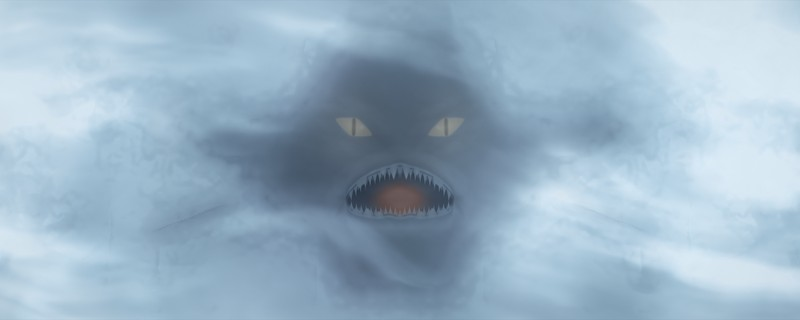
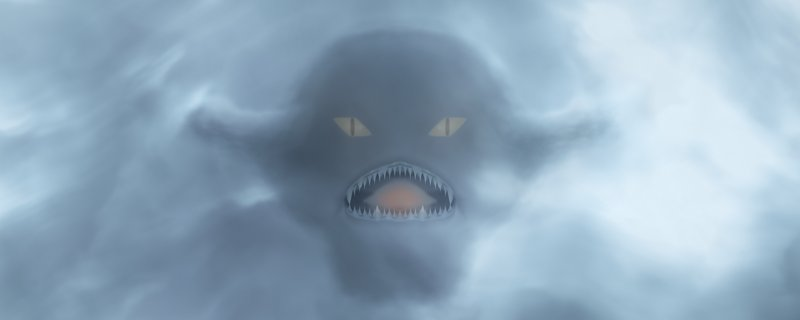
Roarschach README: dice, CHAMBER, preset menu and gallery screenshots; re-captured visualiser stills
Adds tooltips for the three kinds of die, the dice undo menu and a before/after
RANDOMISE ALL roll (Big Bad Narrator, seed 5); CHAMBER in three states with its
Room, Speaker and Boom menus, an Edge tooltip and its ••• menu; the preset list
with the Machines, Creatures and Voices groups open; a gallery of Simple Size,
Cyber Commander, Symbiote and Iron Tyrant playing a voice; and the creature's
right-click menu. The six visualiser stills are re-captured from the current
renderer at the same evolution stages. All images rendered from the build with
the bundled rooms.

diff --git a/roarschach/README.md b/roarschach/README.md
@@ -94,17 +94,31 @@ Every control has a tooltip: hover over it to see what it does, and where its us
 
 ### The dice
 
-<img src="docs/panel-roll-all.png" alt="RANDOMISE ALL: a die in the empty slot after the last module, above the connector into OUTPUT" width="152">
+Three kinds of die roll new settings: one beside the preset name, one after the last module, and one on every module.
 
-Three kinds of die roll new settings. Each roll is one step you can take back: right-click any die for **Undo** and **Redo** (with the keyboard, Shift+F10 on a die opens the same menu), or press Cmd+Z (Ctrl+Z on Windows) straight after clicking a die, and Shift+Cmd+Z (Shift+Ctrl+Z) to redo. Once you use another control, these keys go back to the host's own undo; some hosts keep them for themselves anyway, and the right-click menu always works. Undo takes back only what the roll changed, and a knob you turned afterwards stays where you put it, even one the roll had changed. Loading a preset or session, even the same one again, ends the history. The host sees every control a roll changes, so it records the roll and its automation follows.
+<img src="docs/dice-preset-tooltip.png" alt="The preset bar with the pointer on the die after the next-preset arrow and its tooltip: Loads a random factory preset, never the one showing. Every factory preset comes up once before any comes up again. Right-click any die to undo a roll (or press Cmd+Z straight after clicking it)." width="397">
+
+<img src="docs/dice-roll-all-tooltip.png" alt="RANDOMISE ALL, the die in the empty slot after the last module, under the pointer with its tooltip: Rolls a new creature: turns three to seven modules on (the rest off) and gives every module's knobs and modes new settings, each inside its useful range. The module order, IN and OUTPUT stay as they are, so the level stays safe." width="509">
+
+<img src="docs/dice-module-tooltip.png" alt="PITCH's small die, beside its SHIFT · FOLLOW mode chip, under the pointer with its tooltip: Rolls new settings for PITCH: its knobs and modes, each inside its useful range. Its On switch and its place in the chain stay as they are." width="556">
+
+Each roll is one step you can take back: right-click any die for **Undo** and **Redo** (with the keyboard, Shift+F10 on a die opens the same menu), or press Cmd+Z (Ctrl+Z on Windows) straight after clicking a die, and Shift+Cmd+Z (Shift+Ctrl+Z) to redo. Once you use another control, these keys go back to the host's own undo; some hosts keep them for themselves anyway, and the right-click menu always works. Undo takes back only what the roll changed, and a knob you turned afterwards stays where you put it, even one the roll had changed. Loading a preset or session, even the same one again, ends the history. The host sees every control a roll changes, so it records the roll and its automation follows.
 
 - **Random preset** (the die beside the preset name): loads a random factory preset, never the one showing. Every factory preset comes up once before any comes up again.
 - **Randomise all** (the die after the last module): a new creature. It turns three to seven modules on and the rest off (at least two of them ones that change the voice, not only CLEAN, DE-ESS, DETAIL and TAME), and gives every module's knobs and modes new settings. The preset name shows `*`, as for any edit.
 - **A module's die** (beside its mode chip): new settings for that module's knobs and modes only. Its On switch and its place in the chain stay as they are.
 
+<img src="docs/dice-undo-menu.png" alt="The menu from right-clicking RANDOMISE ALL straight after a roll: Undo Roll All, and Redo Roll greyed out" width="200">
+
+One RANDOMISE ALL roll from the Big Bad Narrator preset. Before, PITCH, CLEAN, DE-ESS, DETAIL, ROAR, TAME, SUB, OVERTONE and CHAMBER are on; after, CLEAN, VOCODER, RING, SHIMMER and ENSEMBLE are, every module has new settings, the preset name shows `*`, and the creature has metal plates over its mouth from RING. The module order, IN and OUTPUT are as they were.
+
+<img src="docs/roll-before.jpg" alt="The whole window with the Big Bad Narrator preset playing a voice: PITCH, CLEAN, DE-ESS, DETAIL, ROAR, TAME, SUB, OVERTONE and CHAMBER switched on" width="880">
+
+<img src="docs/roll-after.jpg" alt="The same window after one RANDOMISE ALL roll: the preset name reads Big Bad Narrator *, and CLEAN, VOCODER, RING, SHIMMER and ENSEMBLE are on with new settings while the other modules are off; the creature has grey metal plates over its mouth" width="880">
+
 A roll only lands where a knob is useful: each knob rolls inside the range the [parameter audit](docs/parameter-audit.md) found usable, never into its dead or harmful ends (PITCH −14 to −2 st, Swirl up to 50% and its Deep 6 circuit up to 30%, Ring Freq 60–450 Hz, Chamber 15–65%, and so on), and each mode is picked evenly from its options (Boom leaves out Heavy). The dice never move a module or touch IN or OUTPUT, so the level stays safe: on five real voice takes, 200 rolls each, 998 of the 1,000 rolls played within 3 LU of Init (the other two 3.0 and 3.8 LU quieter), and none went over the ceiling. Knobs glide to their new values and modules fade in and out, so a roll does not click while audio plays.
 
-The close-ups below are from the Kaiju preset; RING and OUTPUT are from Cyber Commander, and CHAMBER from Iron Tyrant. Every knob's travel was measured on real voice recordings and mapped so that all of it does something; the measurements are in [docs/parameter-audit.md](docs/parameter-audit.md).
+The close-ups below are from the Kaiju preset; RING and OUTPUT are from Cyber Commander, and the CHAMBER tiles from the presets named under them. Every knob's travel was measured on real voice recordings and mapped so that all of it does something; the measurements are in [docs/parameter-audit.md](docs/parameter-audit.md).
 
 ### IN
 
@@ -272,8 +286,6 @@ Placed after SUB (the default), OVERTONE also makes SUB's octave audible on smal
 
 ### CHAMBER
 
-<img src="docs/panel-chamber.png" alt="The CHAMBER tile with Amount 60%, Resonance 65%, Edge 60% and Width 50%, in Steel Box with the Horn speaker and Heavy Boom, its footer showing the room's decay" width="152">
-
 CHAMBER plays the voice through a small speaker into a tight, resonant room, then blends it back under the untreated voice. A little gives a voice an edge and a sense of size; more puts it inside a box, a booth or a can. The rooms are small and ringing, not a hall reverb. CHAMBER is Off by default (and in sessions saved before it existed), and sits right after PITCH.
 
 | Control | Range | Default | Description |
@@ -285,6 +297,16 @@ CHAMBER plays the voice through a small speaker into a tight, resonant room, the
 | **Room** | 8 rooms (below) | Concrete Room | The room the speaker plays into. |
 | **Speaker** | Tiny / Small / Horn | Small | The speaker the voice is played through. Tiny is thin and nasal, Small a compact full-range box, Horn a narrow, honking paging horn. |
 | **Boom** | Off / Light / Medium / Heavy | Light | Low-end weight added after the whole chain, a shelf at 110 Hz: Light +3 dB, Medium +6 dB, Heavy +9 dB. |
+
+The mode chip shows the room, the speaker and the Boom, shortened to fit (CONC · SML · LGT is Concrete Room, Small, Light). Click it for a menu with one list for each, the current choice ticked. When CHAMBER is on, its footer shows the room and how long it rings at the current Resonance.
+
+<img src="docs/chamber-off.png" alt="CHAMBER Off, as in Init: dimmed knobs at Amount 50%, Reson 40%, Edge 30% and Width 35%, the chip reading CONC · SML · LGT and the footer OFF" width="152"> <img src="docs/chamber-simple-size.png" alt="CHAMBER in Simple Size: Amount 30%, Reson 30%, Edge 15%, Width 70%, Resonant Chamber with the Small speaker and Medium Boom, the footer showing the room ringing for 0.62 s" width="152"> <img src="docs/chamber-tin-can-drone.png" alt="CHAMBER in Tin Can Drone: Amount 75%, Reson 90%, Edge 40%, Width 30%, Tin Booth with the Tiny speaker and Boom Off, the footer showing 0.82 s" width="152"> <img src="docs/panel-chamber.png" alt="CHAMBER in Iron Tyrant: Amount 60%, Reson 65%, Edge 60%, Width 50%, Steel Box with the Horn speaker and Heavy Boom, the footer showing the room's decay" width="152">
+
+<img src="docs/chamber-menu-room.png" alt="CHAMBER's mode menu with its Room list open: Steel Box, Resonant Chamber (ticked), Concrete Room, Tin Booth, Padded Cell, Wood Chamber, Timber Room and Soft Bloom; the main menu lists Room (Resonant Chamber), Speaker (Small) and Boom (Medium)" width="441">
+
+<img src="docs/chamber-menu-speaker.png" alt="CHAMBER's Speaker list: Tiny, Small (ticked) and Horn" width="363"> <img src="docs/chamber-menu-boom.png" alt="CHAMBER's Boom list: Off, Light, Medium (ticked) and Heavy" width="369">
+
+<img src="docs/chamber-tooltip-edge.png" alt="The tooltip over CHAMBER's Edge knob: Drives the small speaker into breakup: grit at 15-35 %, a cranked speaker at 50-70 %, torn and buzzing towards 100 %. Heard once Amount is about 60 % or more." width="461"> <img src="docs/chamber-move-menu.png" alt="CHAMBER's ••• menu: CHAMBER (2 of 15), Move to Start, Move Earlier, Move Later, Move to End, Move After, Turn Off, and Reset Chain Order greyed out because the chain is in the default order" width="332">
 
 | Room | Character | Decay (about) |
 |---|---|---|
@@ -326,12 +348,14 @@ The meters show the output level (with the ceiling marked), the limiter's gain r
 The creature above the chain is drawn live in OpenGL from the audio and the controls. It forms out of slowly swirling cloud, all of it seen through a drifting veil of pale, cool blue-grey mist: when the voice comes in, its eyes and mouth glow through first, then the brow and teeth, then the head, and the cloud condenses into a mirror-symmetric blot of ink smoke that reads through the mist as a soft dark shape. The mist thins a little around the eyes and on loud roars but never clears. When it goes quiet the face softens back into fog, with the eyes the last to fade.
 
 <img src="docs/view-asleep.jpg" alt="Silence: pale blue-grey cloud drifting under a thick veil of mist, with no face in it" width="400"> <img src="docs/view-forming.jpg" alt="The voice comes in: two small amber eyes and the line of a mouth gather out of the mist first" width="400">
-<img src="docs/view-talking.jpg" alt="Early on, talking: a faint smoky face in the mist with large amber eyes and a small toothy mouth glowing in its throat" width="400"> <img src="docs/view-liquid.jpg" alt="After a few minutes of roaring with Liquid Beast: a dark, smoky head seen through the mist, with slit eyes and a wide maw of needle teeth around a red-glowing throat" width="400">
-<img src="docs/view-horned.jpg" alt="Later, with Kaiju: a heavier head with broad smoke wings spreading through the mist and the vocoder's fan of ridges under its jaw" width="400"> <img src="docs/view-crown.jpg" alt="After a long, loud session: extra eyes open on its brow and cheeks, and pale rings show in its wings" width="400">
+<img src="docs/view-talking.jpg" alt="Early on, talking: a round smoky head in the mist with slit amber eyes and a small mouth of teeth glowing orange in its throat" width="400"> <img src="docs/view-liquid.jpg" alt="After a few minutes of roaring with Liquid Beast: a dark, smoky head seen through the mist with swept-out wisps of smoke at its sides, slit eyes and a wide maw of needle teeth around a glowing throat" width="400">
+<img src="docs/view-horned.jpg" alt="Later, with Kaiju: a heavier head with broad smoke wings spreading through the mist, faint creases on its brow and the vocoder's fan of ridges under its jaw" width="400"> <img src="docs/view-crown.jpg" alt="After a long, loud session: extra eyes open on its brow and cheeks, and its smoke wings spread wide with ragged edges" width="400">
 
 **It evolves.** Sustained intensity (loud, heated, growling, driven sound, not just high knob settings) slowly grows it from a pale pressed blot into something larger: a soft moth-like spirit, a horned beast, a dripping liquid horror, a winged and horned wyrm, and finally a many-eyed thing with a crown of spines. The stages blend into each other and never switch: horns and spines grow out of the head, extra eyes open from creases in the skin, and the change takes minutes, not seconds. Quiet lets it cool and settle back over minutes. A long, hard session leaves its mark: it only drifts all the way home after a long stretch of quiet. Which modules carry the sound also leans its character: SHIMMER, SWIRL and ENSEMBLE make it more fluid, ROAR, GROWL and the clipper more bestial, the VOCODER, RING and OVERTONE more eldritch, and SUB, a low PITCH and a straining limiter heavier and darker. Every instance grows its own creature, and the creature and how far it has evolved are saved with the session.
 
 Right-click the creature for **Evolution: Live** (it keeps evolving), **Evolution: Frozen** (it holds its current form; it still moves with the voice) and **Reset creature** (it eases back to a blot over a few seconds and grows a new one).
+
+<img src="docs/creature-menu.jpg" alt="The creature's right-click menu under the lower-left corner of the view: a Creature heading, Evolution: Live (ticked), Evolution: Frozen and Reset creature" width="420">
 
 On top of whatever form it has taken, every module still shows on it:
 
@@ -350,6 +374,12 @@ Use the arrows either side of the preset name to step through presets, or click 
 
 <img src="docs/header.png" alt="The preset bar: the previous and next arrows, the preset name (Kaiju), the random-preset die, SAVE and the About button" width="500">
 
+The list opens with Init, then one submenu per group, with the current preset ticked in its group. Your own presets are under USER.
+
+<img src="docs/preset-menu-machines.png" alt="The preset list open from the preset name, with Cyber Commander loaded: FACTORY with Init and the Creatures, Voices, Machines, Signal Flow, Vocoder and Utility groups, then USER, Save As, Delete and Show Presets Folder; the Machines group is open, listing Cyber Commander (ticked), Respirator Rasp, Rasp Machine, Robot Ogre, Iron Tyrant and Tin Can Drone" width="467">
+
+<img src="docs/preset-menu-creatures.png" alt="The Creatures group open with Symbiote ticked: Symbiote, Liquid Beast, Gravel Throat, Cave Troll, Kaiju, Gargoyle, Hellhound, Golem, Kraken and Throat Singer" width="452"> <img src="docs/preset-menu-voices.png" alt="The Voices group open with Simple Size ticked: Big Bad Narrator, Demon Whisper, Giant, Possessed, Ogre Radio and Simple Size" width="474">
+
 | Group | Presets |
 |---|---|
 | | Init (every control at its default: a slightly lower, bigger voice with a light wobble, growl, tube edge, sub and overtones) |
@@ -361,6 +391,11 @@ Use the arrows either side of the preset name to step through presets, or click 
 | **Utility** | Detail Only, Subtle Size, Clean Lift, Loud & Contained, Crunch Lift, Smashed, Phone Monster |
 
 Every preset sets every control, including the module order. The Signal Flow presets move modules to show what a placement does: for example, Tar Pit drives and chops the voice before PITCH lowers it, and Breathing Walls puts DETAIL last, so it lifts every tail and breath the other modules make.
+
+A few contrasting presets, each playing the same voice (the creature is shown at a different stage of growth in each):
+
+<img src="docs/preset-simple-size.jpg" alt="Simple Size: PITCH at -1 st, CLEAN, DE-ESS, TAME and CHAMBER on and everything else off; a faint early creature in the mist" width="440"> <img src="docs/preset-cyber-commander.jpg" alt="Cyber Commander: CLEAN, RING, PITCH, ROAR, DE-ESS, DETAIL, GROWL and TAME on, with CLEAN and RING moved ahead of PITCH; the creature has RING's metal plates over its mouth" width="440">
+<img src="docs/preset-symbiote.jpg" alt="Symbiote: PITCH, CLEAN, DE-ESS, SHIMMER, GROWL, SWIRL, ROAR, ENSEMBLE, TAME and SUB on; a dark smoky head with spreading wings and a wide maw of teeth" width="440"> <img src="docs/preset-iron-tyrant.jpg" alt="Iron Tyrant: CHAMBER after ROAR in Steel Box with the Horn speaker, and PITCH, CLEAN, DE-ESS, DETAIL, GROWL, TAME and SUB on; a horned head with broad wings and a glowing maw" width="440">
 
 Each preset's settings sit in the useful part of every knob's travel, as measured in [docs/parameter-audit.md](docs/parameter-audit.md), and every preset except the deliberately loud Utility ones (Loud & Contained, Crunch Lift and Smashed) plays within about 1.5 LU of Init.
 
